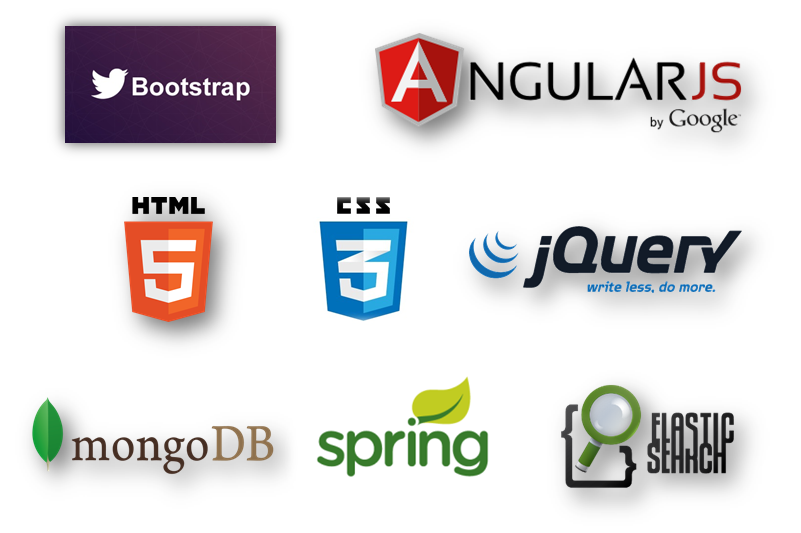
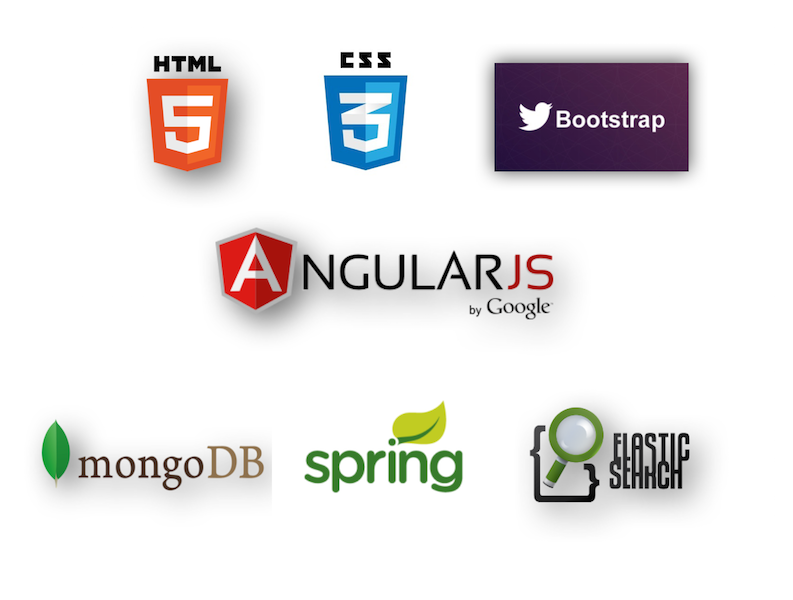
remove jquery in favor of angular js

diff --git a/README.md b/README.md
@@ -8,7 +8,7 @@ MASE stands for <strong>M</strong>ongodb-<strong>A</strong>ngularjs-<strong>S</s
 
 * [AngularJS](http://angularjs.org/)
 * [Twitter bootstrap](http://getbootstrap.com/)
-* [HTML5](http://www.w3.org/TR/html5/), [CSS3](http://www.w3schools.com/css/css3_intro.asp), [JQuery](http://jquery.com/)
+* [HTML5](http://www.w3.org/TR/html5/) and [CSS3](http://www.w3schools.com/css/css3_intro.asp)
 
 ## Server side
 
